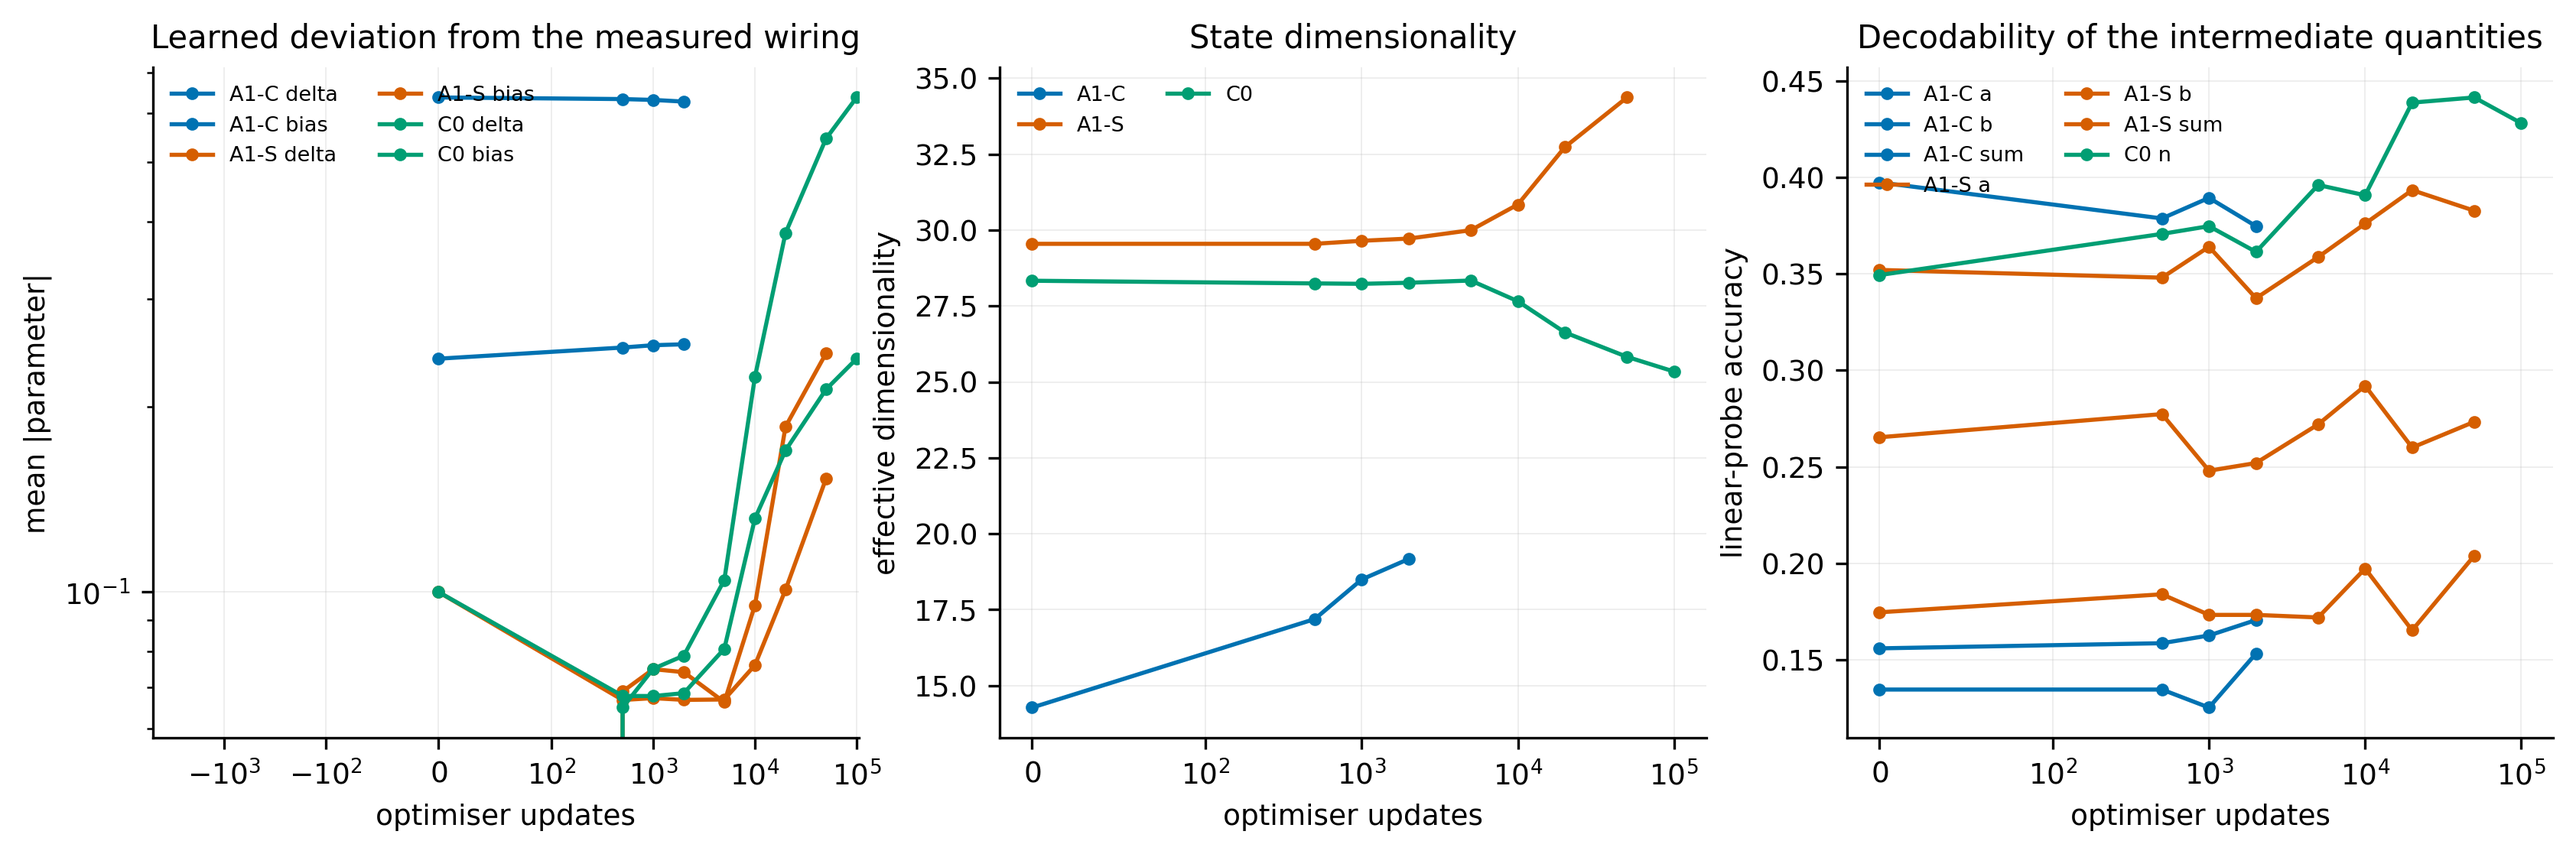
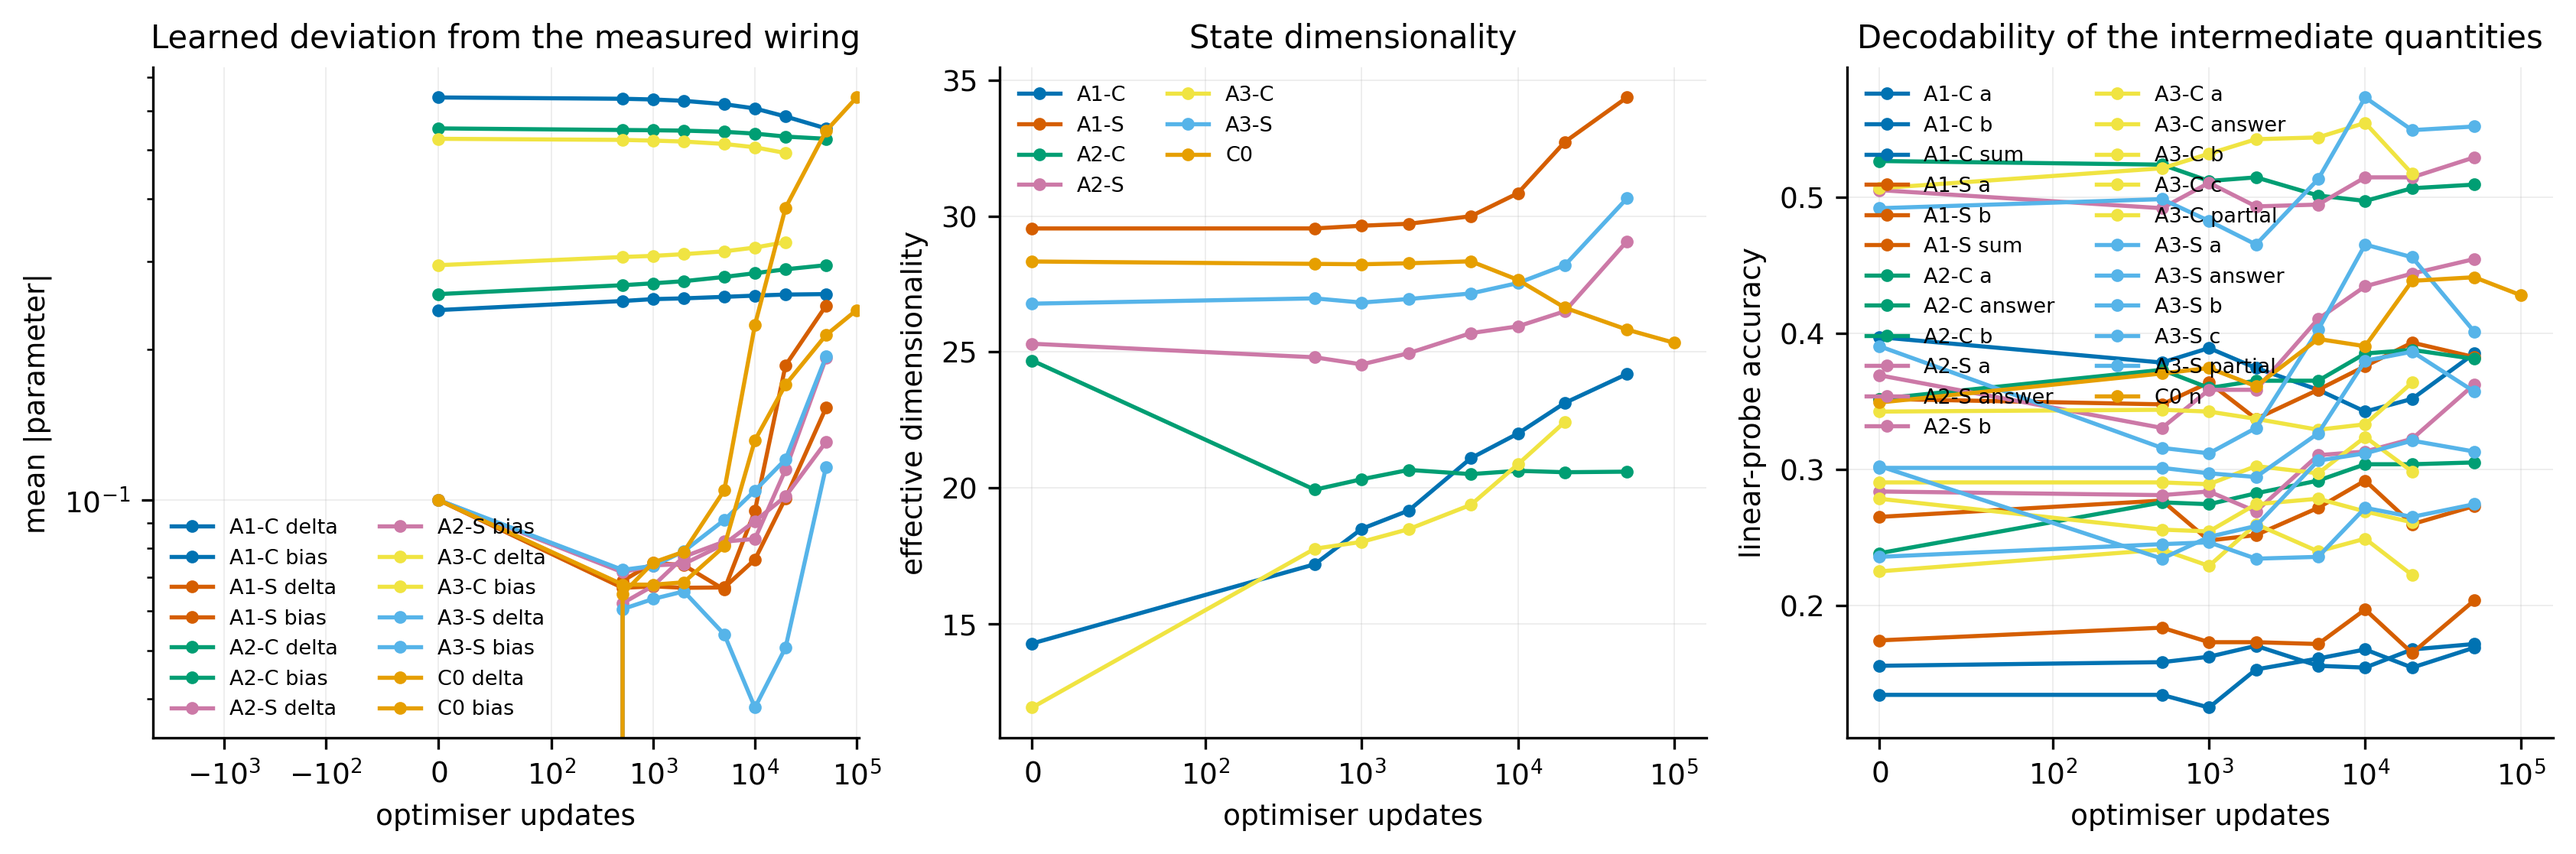
phase1: Line A complete (foundation + six comparison cells)
Condition B, the diagnostic one, against the feedforward reference for the
same task and chance:

  count 1-7        0.811  (feedforward 0.228, chance 0.143)
  add 1-7          0.163 / 0.146  (0.121, 0.077)
  +- rule choice   0.319 / 0.321  (0.279, 0.111)
  two-step         0.282 / 0.283  (0.217, 0.143)

Counting is far above every feedforward reference; the three arithmetic
levels sit 0.03-0.07 above theirs, which is the range a single seed cannot
resolve.  The curriculum shows no transfer in B anywhere: add -0.017,
rule selection +0.002, two-step +0.001.  The mixture-mean column alone would
have suggested a small benefit for rule selection (+0.021) and two-step
(+0.015); it disappears in the condition where computation is required.

Difficulty in B is ordered by operand range and class count rather than by
'the operation is harder': addition over 1-7 (13 classes) is the hardest of
the three, rule selection over 1-4 with a visible glyph (9 classes) the
easiest.

diff --git a/reports/phase1_report.md b/reports/phase1_report.md
@@ -38,7 +38,8 @@
 | A1-C | add | count | 50000 | **0.146** | 0.121 | 0.199 | 0.127 | 0.237 | 0.188 | -- | -- |
 | A2-S | addsub | scratch | 50000 | **0.319** | 0.279 | 0.357 | 0.327 | 0.364 | 0.324 | -- | -- |
 | A2-C | addsub | add | 50000 | **0.321** | 0.279 | 0.378 | 0.269 | 0.425 | 0.354 | -- | -- |
-| A3-S | two_step | scratch | 50000 | **0.227** | 0.217 | 0.239 | 0.217 | 0.239 | 0.235 | -- | -- |
+| A3-S | two_step | scratch | 50000 | **0.282** | 0.217 | 0.298 | 0.255 | 0.293 | 0.262 | -- | -- |
+| A3-C | two_step | curriculum | 50000 | **0.283** | 0.217 | 0.313 | 0.250 | 0.334 | 0.286 | -- | -- |
 
 `seen` 是教学内容（A、B 两条件）上的平均准确率；chance: count 0.143 / add 0.077 / addsub 0.111 / two_step 0.143。
 
@@ -60,5 +61,6 @@ _尚未有完成的 Line B cell。_
 | A1-S | 0.2444 | 34.4 | a=0.383 b=0.273 sum=0.204 |
 | A2-C | 0.5268 | 20.6 | a=0.509 answer=0.305 b=0.381 |
 | A2-S | 0.1920 | 29.1 | a=0.529 answer=0.363 b=0.455 |
-| A3-S | 0.0385 | 27.5 | a=0.573 answer=0.272 b=0.465 c=0.380 partial=0.312 |
+| A3-C | 0.4934 | 22.4 | a=0.517 answer=0.223 b=0.364 c=0.299 partial=0.261 |
+| A3-S | 0.1165 | 30.7 | a=0.552 answer=0.275 b=0.401 c=0.357 partial=0.313 |
 | C0 | 0.6371 | 25.3 | n=0.428 |
